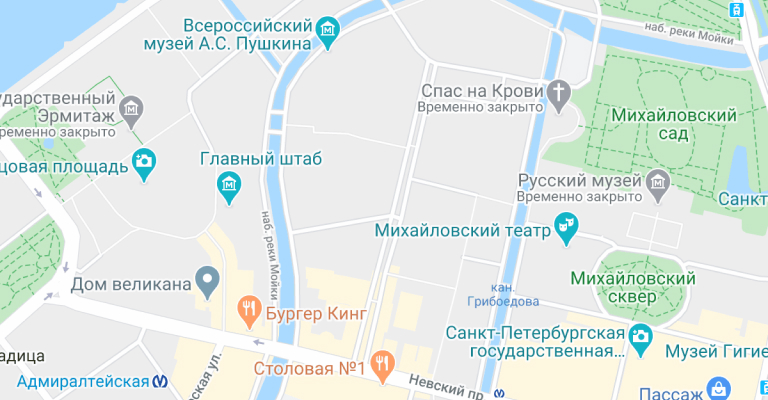
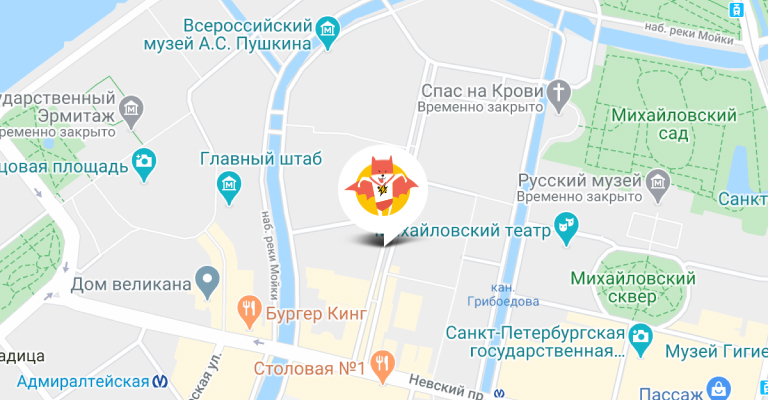
добавляет предзагрузку шрифтов

Changed region(s): [[0.4375, 0.39, 0.5625, 0.63]]

diff --git a/source/catalog.html b/source/catalog.html
@@ -10,6 +10,8 @@
   <link rel="apple-touch-icon" href="img/favicons/apple.png">
   <link rel="manifest" href="manifest.webmanifest">
   <link rel="stylesheet" href="css/style.min.css">
+  <link rel="preload" href="fonts/oswaldregular.woff2" as="font">
+  <link rel="preload" href="fonts/oswaldmedium.woff2" as="font">
 </head>
 
 <body class="page__body">
@@ -351,6 +353,14 @@
           width="320" height="362" allowfullscreen
           title="Офис компании по адресу ул. Большая Конюшенная, д. 19/8 Санкт-Петербург">
         </iframe>
+        <picture>
+          <source media="(min-width: 1440px)"
+          srcset="img/location/location-desktop@1x.jpg 1x, img/location/location-desktop@2x.jpg 2x">
+          <source media="(min-width: 768px)"
+          srcset="img/location/location-tablet@1x.jpg 1x, img/location/location-tablet@2x.jpg 2x">
+          <img class="location-image" src="img/location/location@1x.jpg" width="320" height="362"
+            srcset="img/location/location@1x.jpg 1x, img/location/location@2x.jpg 2x" alt="Карта с местоположением.">
+        </picture>
       </div>
     </section>
   </main>

diff --git a/source/form.html b/source/form.html
@@ -10,6 +10,8 @@
   <link rel="apple-touch-icon" href="img/favicons/apple.png">
   <link rel="manifest" href="manifest.webmanifest">
   <link rel="stylesheet" href="css/style.min.css">
+  <link rel="preload" href="fonts/oswaldregular.woff2" as="font">
+  <link rel="preload" href="fonts/oswaldmedium.woff2" as="font">
 </head>
 
 <body class="page__body">
@@ -199,6 +201,14 @@
           width="320" height="362" allowfullscreen
           title="Офис компании по адресу ул. Большая Конюшенная, д. 19/8 Санкт-Петербург">
         </iframe>
+        <picture>
+          <source media="(min-width: 1440px)"
+          srcset="img/location/location-desktop@1x.jpg 1x, img/location/location-desktop@2x.jpg 2x">
+          <source media="(min-width: 768px)"
+          srcset="img/location/location-tablet@1x.jpg 1x, img/location/location-tablet@2x.jpg 2x">
+          <img class="location-image" src="img/location/location@1x.jpg" width="320" height="362"
+            srcset="img/location/location@1x.jpg 1x, img/location/location@2x.jpg 2x" alt="Карта с местоположением.">
+        </picture>
       </div>
     </section>
   </main>

diff --git a/source/index.html b/source/index.html
@@ -8,8 +8,10 @@
   <link rel="icon" href="favicon.ico">
   <link rel="icon" href="img/favicons/favicon.svg" type="image/svg+xml">
   <link rel="apple-touch-icon" href="img/favicons/apple.png">
-  <link rel="manifest" href="/manifest.webmanifest">
+  <link rel="manifest" href="manifest.webmanifest">
   <link rel="stylesheet" href="css/style.min.css">
+  <link rel="preload" href="fonts/oswaldregular.woff2" as="font">
+  <link rel="preload" href="fonts/oswaldmedium.woff2" as="font">
 </head>
 
 <body class="page__body">
